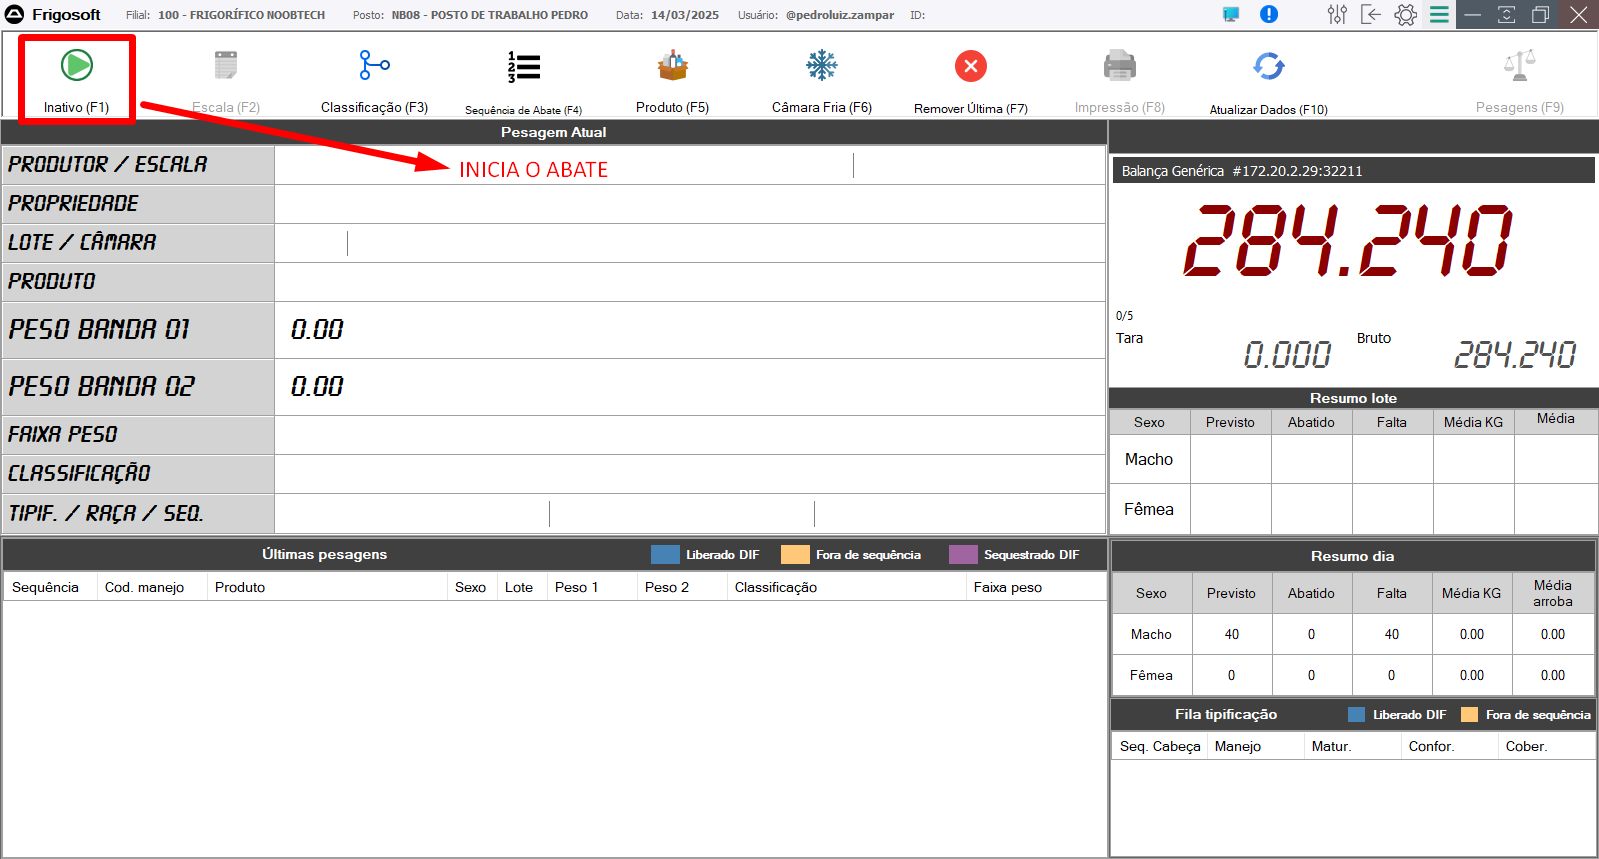
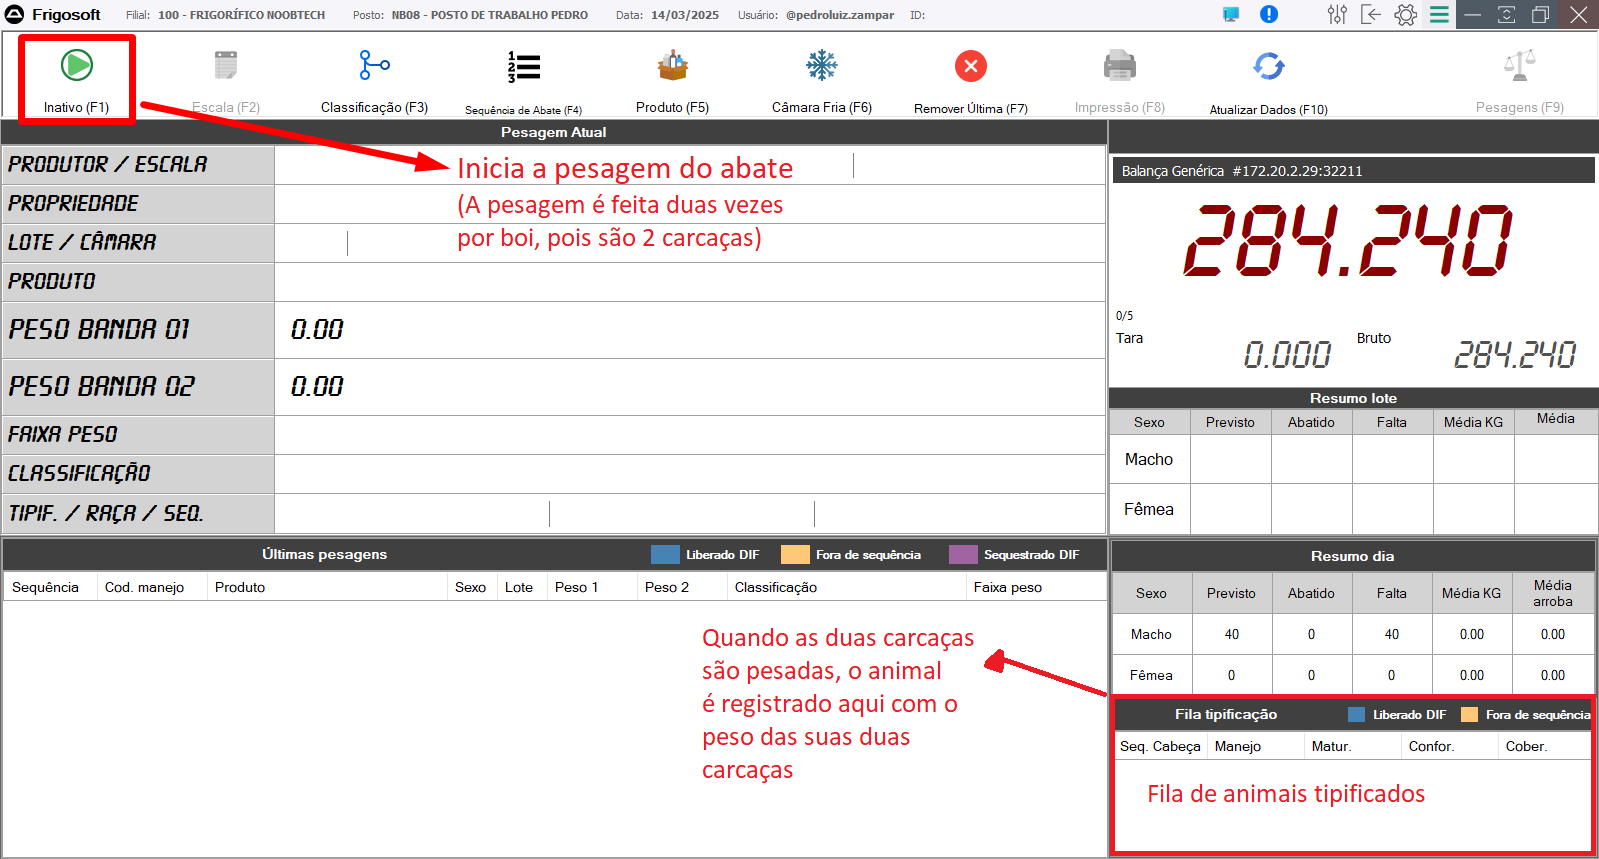
Atualizações 11/03/2025

diff --git a/2025-03-10.md b/2025-03-10.md
@@ -86,24 +86,21 @@
 
     - #### Sem Escala
 
-- ### Abate
+- ### Pesagem do Abate | `T210`
     - ![alt text](imagens/Screenshot_180.png)
     - ![alt text](imagens/Screenshot_169.png)
 
+- ### Endereçamento das Carcaças
 
 
 
-
-
-
-
-
-
-
-    
->>>>>> ### ROMANEIO -> `T210`
+> Contrato -> Recebimento de animais com Escala -> RAST01 -> (DIF/Sequestro) -> Tipificação -> Romaneio
+> () -> Opcional
 
 ## Relatórios
 
-- #### WRABT001 - Relatório de Escala de Abate (`Frigorífico -> Relatórios`)
+- #### WRABT001 - Relatório de Escala de Abate (`Frigorífico -> Relatórios de Abate`)
     ![alt text](imagens/Screenshot_151.png)
+
+- #### WRABT010 - Romaneio de Abate Analítico (`Frigorífico -> Relatórios de Abate`)
+    ![alt text](imagens/Screenshot_181.png)

diff --git a/2025-03-11.md b/2025-03-11.md
@@ -1,0 +1,14 @@
+# 📌 **Diário de Bordo 11/03/2025**
+## *Treinamento do Frigosoft | Instrutor: Ayad Paracat*
+
+## Endereçamento de Carcaças
+
+- ### Cadastro de Câmaras de Estocagem (`WMS -> Câmara de Estocagem -> Novo`)
+    ![alt text](imagens/Screenshot_183.png)
+
+- ### Endereçamento
+    ![alt text](imagens/Screenshot_182.png)
+    ![alt text](imagens/Screenshot_184.png)
+
+- ### Relatório (`Frigorífico -> Relatórios de Abate -> WRABT014 - Endereçamento de Carcaças`)
+    ![alt text](imagens/Screenshot_185.png)
